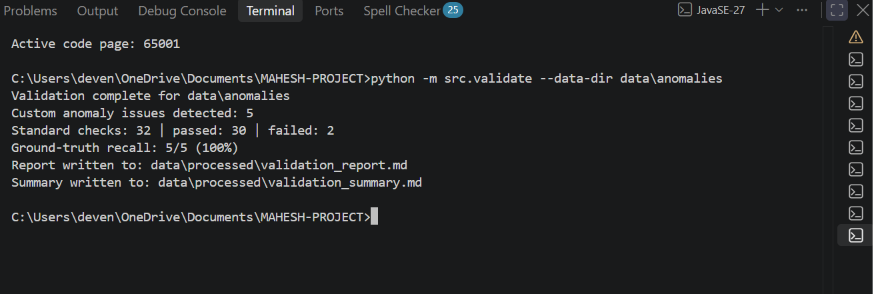
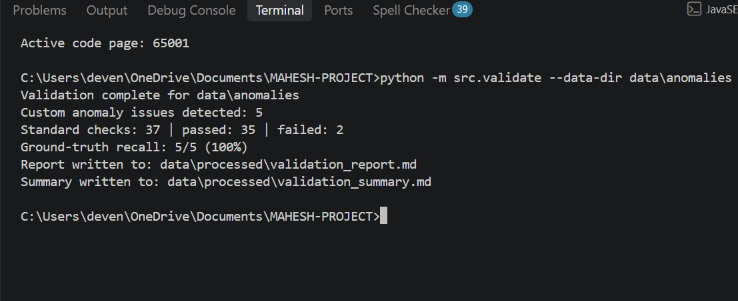
Update validation checks and evidence screenshots

diff --git a/src/check_integrity.py b/src/check_integrity.py
@@ -20,48 +20,88 @@ PRIMARY_KEYS = {
     "forecast_snapshot": "forecast_snapshot_id",
 }
 
-# The 15 relationships selected for this checker.
+
+# Foreign-key relationships matching src/database.py.
 FOREIGN_KEYS = [
-    ("sales_rep", "territory_id", "territory", "territory_id"),
+    ("account", "territory_id", "territory", "territory_id"),
     ("rep_territory_assignment", "rep_id", "sales_rep", "rep_id"),
     ("rep_territory_assignment", "territory_id", "territory", "territory_id"),
-    ("account", "account_id", "opportunity", "account_id"),
+    ("opportunity", "account_id", "account", "account_id"),
     ("opportunity", "owner_rep_id", "sales_rep", "rep_id"),
-    ("opportunity", "stage_id", "stage", "stage_id"),
+    ("opportunity", "territory_id", "territory", "territory_id"),
+    ("opportunity", "source_opportunity_id", "opportunity", "opportunity_id"),
+    ("opportunity", "current_stage", "stage", "stage_name"),
     ("stage_history", "opportunity_id", "opportunity", "opportunity_id"),
+    ("stage_history", "from_stage_id", "stage", "stage_id"),
     ("stage_history", "to_stage_id", "stage", "stage_id"),
+    ("stage_history", "changed_by_rep_id", "sales_rep", "rep_id"),
     ("activity", "opportunity_id", "opportunity", "opportunity_id"),
     ("activity", "rep_id", "sales_rep", "rep_id"),
     ("quota", "rep_id", "sales_rep", "rep_id"),
-    ("quota", "territory_id", "territory", "territory_id"),
     ("historical_booking", "opportunity_id", "opportunity", "opportunity_id"),
-    ("forecast_snapshot", "stage_id", "stage", "stage_id"),
+    ("historical_booking", "account_id", "account", "account_id"),
+    ("historical_booking", "rep_id", "sales_rep", "rep_id"),
     ("forecast_snapshot", "opportunity_id", "opportunity", "opportunity_id"),
+    ("forecast_snapshot", "stage_id", "stage", "stage_id"),
 ]
 
 
+# Only these foreign-key columns are allowed to contain blank values.
+OPTIONAL_FOREIGN_KEYS = {
+    ("opportunity", "source_opportunity_id"),
+    ("stage_history", "from_stage_id"),
+}
+
+
 def read_csv(data_dir, table_name):
+    """Read a CSV and return its column names and rows."""
     path = data_dir / f"{table_name}.csv"
+
     if not path.exists():
         return None
 
     with path.open("r", newline="", encoding="utf-8-sig") as file:
-        return list(csv.DictReader(file))
+        reader = csv.DictReader(file)
+        columns = reader.fieldnames or []
+        rows = list(reader)
+
+    return columns, rows
 
 
 def check_primary_key(data_dir, table_name, key):
-    rows = read_csv(data_dir, table_name)
+    """Check primary-key column existence, blanks, and duplicates."""
+    result = read_csv(data_dir, table_name)
 
-    if rows is None:
+    if result is None:
         return False, 0, 1, f"missing file: {table_name}.csv"
 
-    blank_count = sum(not (row.get(key) or "").strip() for row in rows)
+    columns, rows = result
+
+    if key not in columns:
+        return (
+            False,
+            len(rows),
+            1,
+            f"missing primary-key column: {key}",
+        )
+
+    blank_count = sum(
+        not (row.get(key) or "").strip()
+        for row in rows
+    )
+
     values = [
         (row.get(key) or "").strip()
         for row in rows
         if (row.get(key) or "").strip()
     ]
-    duplicate_count = sum(count - 1 for count in Counter(values).values() if count > 1)
+
+    duplicate_count = sum(
+        count - 1
+        for count in Counter(values).values()
+        if count > 1
+    )
+
     violations = blank_count + duplicate_count
 
     return (
@@ -72,15 +112,51 @@ def check_primary_key(data_dir, table_name, key):
     )
 
 
-def check_foreign_key(data_dir, child_table, child_column, parent_table, parent_column):
-    child_rows = read_csv(data_dir, child_table)
-    parent_rows = read_csv(data_dir, parent_table)
+def check_foreign_key(
+    data_dir,
+    child_table,
+    child_column,
+    parent_table,
+    parent_column,
+):
+    """Check foreign-key column existence and parent references."""
+    child_result = read_csv(data_dir, child_table)
+    parent_result = read_csv(data_dir, parent_table)
 
-    if child_rows is None:
-        return False, 0, 1, f"missing child file: {child_table}.csv"
+    if child_result is None:
+        return (
+            False,
+            0,
+            1,
+            f"missing child file: {child_table}.csv",
+        )
 
-    if parent_rows is None:
-        return False, len(child_rows), 1, f"missing parent file: {parent_table}.csv"
+    if parent_result is None:
+        return (
+            False,
+            0,
+            1,
+            f"missing parent file: {parent_table}.csv",
+        )
+
+    child_columns, child_rows = child_result
+    parent_columns, parent_rows = parent_result
+
+    if child_column not in child_columns:
+        return (
+            False,
+            len(child_rows),
+            1,
+            f"missing child column: {child_column}",
+        )
+
+    if parent_column not in parent_columns:
+        return (
+            False,
+            len(child_rows),
+            1,
+            f"missing parent column: {parent_column}",
+        )
 
     parent_values = {
         (row.get(parent_column) or "").strip()
@@ -88,17 +164,25 @@ def check_foreign_key(data_dir, child_table, child_column, parent_table, parent_
         if (row.get(parent_column) or "").strip()
     }
 
+    optional = (child_table, child_column) in OPTIONAL_FOREIGN_KEYS
+
     checked = 0
     violations = 0
+    blank_count = 0
 
     for row in child_rows:
         value = (row.get(child_column) or "").strip()
 
-        # Empty foreign-key values are treated as optional.
         if not value:
+            blank_count += 1
+
+            if not optional:
+                violations += 1
+
             continue
 
         checked += 1
+
         if value not in parent_values:
             violations += 1
 
@@ -106,7 +190,10 @@ def check_foreign_key(data_dir, child_table, child_column, parent_table, parent_
         violations == 0,
         checked,
         violations,
-        f"missing references={violations}",
+        (
+            f"missing references={violations - (blank_count if not optional else 0)}, "
+            f"blank={blank_count}, optional={optional}"
+        ),
     )
 
 
@@ -114,15 +201,17 @@ def main():
     parser = argparse.ArgumentParser(
         description="Check primary-key uniqueness and foreign-key integrity."
     )
+
     parser.add_argument(
         "--data-dir",
         required=True,
         type=Path,
         help="Directory containing the raw CSV tables.",
     )
-    args = parser.parse_args()
 
+    args = parser.parse_args()
     data_dir = args.data_dir
+
     if not data_dir.is_dir():
         print(f"ERROR | data directory does not exist: {data_dir}")
         return 2
@@ -132,10 +221,14 @@ def main():
 
     for table_name, key in PRIMARY_KEYS.items():
         passed, checked, violations, detail = check_primary_key(
-            data_dir, table_name, key
+            data_dir,
+            table_name,
+            key,
         )
+
         total_checks += 1
         total_failures += int(not passed)
+
         print(
             f"{'PASS' if passed else 'FAIL'} | "
             f"{table_name} primary-key uniqueness | "
@@ -150,8 +243,10 @@ def main():
             parent_table,
             parent_column,
         )
+
         total_checks += 1
         total_failures += int(not passed)
+
         print(
             f"{'PASS' if passed else 'FAIL'} | "
             f"{child_table}.{child_column} -> "
@@ -163,6 +258,7 @@ def main():
         f"\nIntegrity checks: {total_checks} | "
         f"failed checks: {total_failures}"
     )
+
     return 1 if total_failures else 0
 
 

diff --git a/README.md b/README.md
@@ -219,7 +219,7 @@ The project performs standard validation checks and separate custom anomaly dete
 
 ### Standard Validation Checks
 
-The validator runs 32 standard checks.
+The validator runs 37 standard checks.
 
 | Category | Number of checks |
 |---|---:|
@@ -259,9 +259,9 @@ python -m src.validate --data-dir data/raw
 Expected clean-dataset result:
 
 - 11 primary-key checks passed.
-- 15 foreign-key checks passed.
+- 20 foreign-key checks passed.
 - 6 business-rule checks passed.
-- **32 total standard checks passed, 0 failed.**
+- **37 total standard checks passed, 0 failed.**
 - Zero custom anomaly issues.
 
 ### Historical Forecast Evaluation
@@ -313,7 +313,7 @@ The anomaly validation command intentionally returns exit code `1` when it finds
 
 The clean-data validation command should return exit code `0`.
 
-Custom anomaly detections are reported separately from the 32 standard validation checks.
+Custom anomaly detections are reported separately from the 37 standard validation checks.
 
 ## 9. Project Structure
 
@@ -439,7 +439,7 @@ python -m src.validate --data-dir data/raw
 
 The clean-data validation should report:
 
-- 32 passed standard checks.
+- 37 passed standard checks.
 - Zero failed standard checks.
 - Zero custom anomaly issues.
 - Successful exit status.
@@ -517,9 +517,9 @@ The verified full-size run completed with:
 | Scenario summary records | 384 rows |
 | Historical accuracy results | 18,778 rows |
 | Primary-key checks | 11 passed |
-| Foreign-key checks | 15 passed |
+| Foreign-key checks | 20 passed |
 | Business-rule checks | 6 passed |
-| Standard validation checks | 32 passed, 0 failed |
+| Standard validation checks | 37 passed, 0 failed |
 | Clean dataset anomaly issues | 0 |
 | Injected anomalies detected | 5/5 |
 | Ground-truth recall | 100% |
@@ -545,9 +545,9 @@ The following screenshots provide terminal evidence from the verified runs.
 
 ### 12.2 Clean Dataset Validation
 
-All **32 standard validation checks passed**, with zero failed checks and zero custom anomaly issues.
+All **37 standard validation checks passed**, with zero failed checks and zero custom anomaly issues.
 
-![Clean dataset validation — 32 passed, 0 failed](docs/screenshots/clean-validation.png)
+![Clean dataset validation — 37 passed, 0 failed](docs/screenshots/clean-validation.png)
 
 ### 12.3 Anomaly Detection
 
